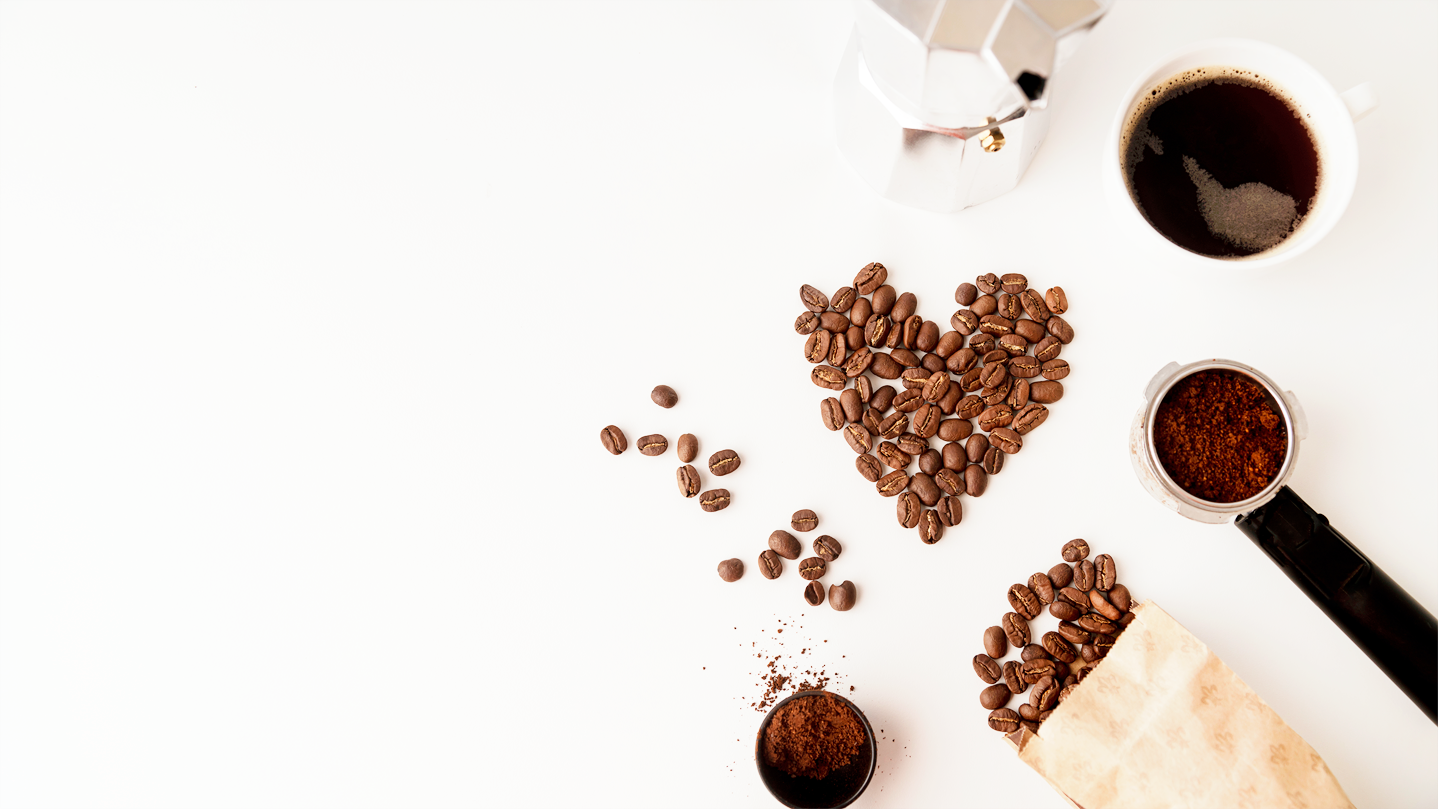
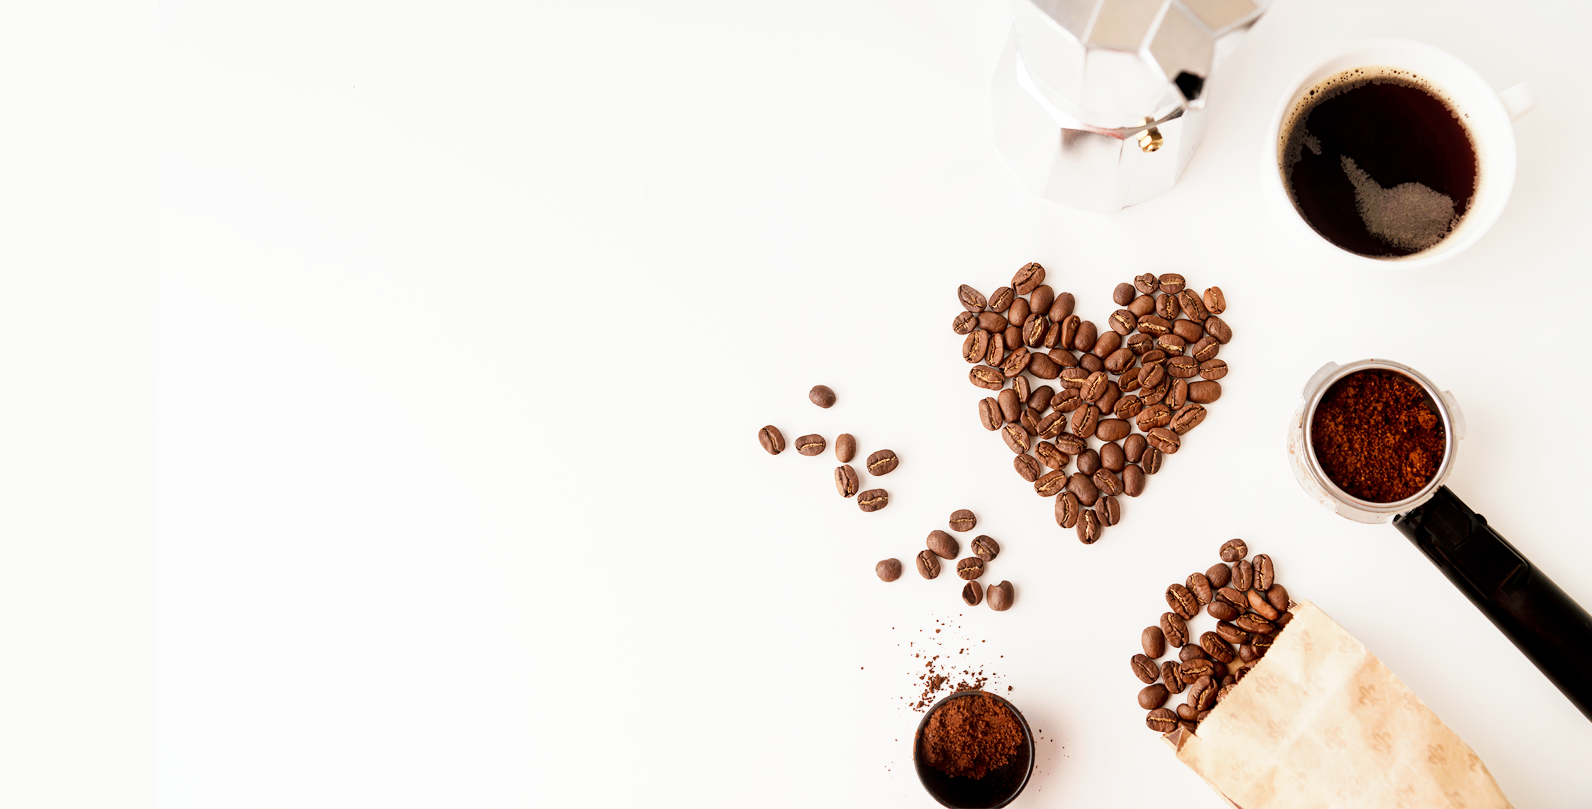
added new layout

Changed region(s): [[0.3978, 0.309, 1.0, 0.8962], [0.5202, 0.6489, 0.9485, 1.0], [0.612, 0.0, 0.9485, 0.3399]]

diff --git a/src/components/Navbar.vue b/src/components/Navbar.vue
@@ -1,12 +1,18 @@
 <template>
-  <nav class="nav">
-    <router-link class="nav-link active" to="/">Home</router-link> 
-    <router-link class="nav-link" to="/about">About</router-link> 
-    <a class="nav-link" href="/#">Menu</a> 
-    <a class="nav-link" href="/#">Blog</a> 
-    <a class="nav-link" href="/#">Shop</a> 
-    <a class="nav-link" href="/#">Contact</a> 
-  </nav>
+  <div class="navbar">
+    <nav class="navbar-links">
+      <router-link to="/">Home</router-link>
+      <router-link to="/about">About</router-link>
+      <a href="/#">Menu</a>
+      <a href="/#">Blog</a>
+      <a href="/#">Shop</a>
+      <a href="/#">Contact</a>
+    </nav>
+    <div class="navbar-logo">
+      <img src="../../public/img/LogoWhite.png" alt="" width="35" height="40" />
+      <p>CoffeeCup</p>
+    </div>
+  </div>
 </template>
 
 <script>
@@ -16,10 +22,29 @@ export default {
 </script>
 
 <style scoped>
-/* nav a {
-  margin: 20px;
+.navbar {
+  display: flex;
+  align-items: center;
+  justify-content: space-between;
+  padding: 7rem 3rem 3rem 3rem;
+  font-family: "Roboto", sans-serif;
+  font-size: 1.8rem;
+}
+
+.navbar-links a {
+  padding-right: 6rem;
   text-decoration: none;
-  color: #1D2440;
-  font-size: 1.5rem;
-} */
+  color: #1d2440;
+}
+
+.navbar-logo {
+  display: flex;
+  align-items: center;
+}
+
+.navbar-logo p {
+  margin: 0rem 6rem 0rem 0.5rem;
+  color: #FFF;
+}
+
 </style>

diff --git a/src/components/TheHeader.vue b/src/components/TheHeader.vue
@@ -1,9 +1,14 @@
 <template>
-  <div class="d-flex justify-content-around p-5 bg-secondary">
+  <div class="header">
     <Navbar />
-    <div>
-      <p>CoffeeCup</p>
-      <img src="../../public/img/LogoWhite.png" alt="" />
+    <div class="header-informations">
+      <h1>Coffee</h1>
+      <h3>Everything You Love About Coffee</h3>
+      <p>
+        Lorem ipsum dolor sit amet, consectetur adipisicing elit, sed do eiusmod
+        tempor incididunt ut labore et dolore magna aliqua. Ut enim ad minim
+        veniam.
+      </p>
     </div>
   </div>
 </template>
@@ -18,5 +23,43 @@ export default {
 </script>
 
 <style scoped>
+
+.header {
+  width: 100%;
+  height: 100vh;
+  background-image: url("../../public/img/Background.png");
+  background-size: 100%;
+  background: cover;
+  background-position-y: -2rem;
+  background-repeat: no-repeat;
+}
+
+.header-informations {
+  width: 800px;
+  margin-left: 3rem;
+}
+
+.header-informations h1{
+font-family: 'Cormorant Garamond', serif; 
+color: #1d2440;
+font-size: 10rem;
+}
+
+.header-informations h3{
+font-family: "Roboto", sans-serif; 
+color: #FF540E;
+font-size: 3rem;
+margin-top: 2rem;
+}
+
+.header-informations p{
+font-family: "Roboto", sans-serif; 
+color: #1d2440;
+font-size: 1.5rem;
+margin-top: 2rem;
+}
+
+
+
 
 </style>

diff --git a/public/index.html b/public/index.html
@@ -5,11 +5,11 @@
     <meta http-equiv="X-UA-Compatible" content="IE=edge" />
     <meta name="viewport" content="width=device-width,initial-scale=1.0" />
     <link rel="icon" href="<%= BASE_URL %>favicon.ico" />
+    <link rel="preconnect" href="https://fonts.googleapis.com" />
+    <link rel="preconnect" href="https://fonts.gstatic.com" crossorigin />
     <link
-      href="https://cdn.jsdelivr.net/npm/bootstrap@5.0.2/dist/css/bootstrap.min.css"
+      href="https://fonts.googleapis.com/css2?family=Cormorant+Garamond:wght@400;600&family=Roboto:wght@300;400&display=swap"
       rel="stylesheet"
-      integrity="sha384-EVSTQN3/azprG1Anm3QDgpJLIm9Nao0Yz1ztcQTwFspd3yD65VohhpuuCOmLASjC"
-      crossorigin="anonymous"
     />
     <title>Coffee Shop</title>
   </head>
@@ -23,10 +23,5 @@
     </noscript>
     <div id="app"></div>
     <!-- built files will be auto injected -->
-    <script
-      src="https://cdn.jsdelivr.net/npm/bootstrap@5.0.2/dist/js/bootstrap.bundle.min.js"
-      integrity="sha384-MrcW6ZMFYlzcLA8Nl+NtUVF0sA7MsXsP1UyJoMp4YLEuNSfAP+JcXn/tWtIaxVXM"
-      crossorigin="anonymous"
-    ></script>
   </body>
 </html>

diff --git a/src/App.vue b/src/App.vue
@@ -14,5 +14,10 @@ export default {
 </script>
 
 <style>
+* {
+  margin: 0;
+  padding: 0;
+  box-sizing: border-box;
+}
 
 </style>
